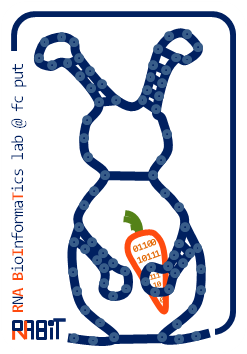
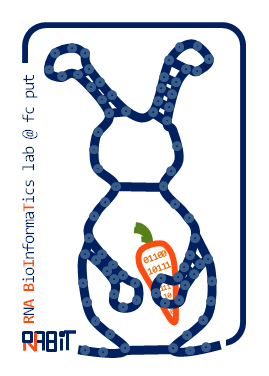
Fixes in About dialog

diff --git a/src/pl/poznan/put/cs/bioserver/gui/MainWindow.java b/src/pl/poznan/put/cs/bioserver/gui/MainWindow.java
@@ -273,8 +273,8 @@ class MainWindow extends JFrame {
         progressBar.setStringPainted(true);
 
         final JPanel panelResultsGlobal = new JPanel(new BorderLayout());
-        panel = new JPanel();
-        panel.add(labelInfoGlobal);
+        panel = new JPanel(new BorderLayout());
+        panel.add(labelInfoGlobal, BorderLayout.WEST);
         panelResultsGlobal.add(panel, BorderLayout.NORTH);
         panelResultsGlobal.add(new JScrollPane(tableMatrix),
                 BorderLayout.CENTER);
@@ -291,8 +291,8 @@ class MainWindow extends JFrame {
         final JPanel panelLocalPlot = new JPanel(new GridLayout(1, 1));
 
         final JPanel panelResultsLocal = new JPanel(new BorderLayout());
-        panel = new JPanel();
-        panel.add(labelInfoLocal);
+        panel = new JPanel(new BorderLayout());
+        panel.add(labelInfoLocal, BorderLayout.WEST);
         panelResultsLocal.add(panel, BorderLayout.NORTH);
         panelResultsLocal.add(panelLocalPlot, BorderLayout.CENTER);
 
@@ -306,8 +306,8 @@ class MainWindow extends JFrame {
         textAreaAlignSeq.setFont(new Font("Monospaced", Font.PLAIN, 20));
 
         final JPanel panelResultsAlignSeq = new JPanel(new BorderLayout());
-        panel = new JPanel();
-        panel.add(labelInfoAlignSeq);
+        panel = new JPanel(new BorderLayout());
+        panel.add(labelInfoAlignSeq, BorderLayout.WEST);
         panelResultsAlignSeq.add(panel, BorderLayout.NORTH);
         panelResultsAlignSeq.add(new JScrollPane(textAreaAlignSeq),
                 BorderLayout.CENTER);

diff --git a/src/pl/poznan/put/cs/bioserver/gui/AboutDialog.java b/src/pl/poznan/put/cs/bioserver/gui/AboutDialog.java
@@ -1,6 +1,7 @@
 package pl.poznan.put.cs.bioserver.gui;
 
 import java.awt.BorderLayout;
+import java.awt.Color;
 import java.awt.Desktop;
 import java.awt.Dimension;
 import java.awt.Frame;
@@ -63,7 +64,7 @@ public class AboutDialog extends JDialog {
         panelClose.add(buttonClose);
 
         JPanel panelImage = new JPanel(new BorderLayout());
-        panelImage.add(labelImage, BorderLayout.NORTH);
+        panelImage.add(labelImage, BorderLayout.CENTER);
 
         setLayout(new BorderLayout());
         add(panelImage, BorderLayout.WEST);
@@ -72,20 +73,15 @@ public class AboutDialog extends JDialog {
 
         setTitle("MCQ4Structures: about");
 
+        setPreferredSize(new Dimension(640, 500));
         pack();
-        int width;
-        if (image != null) {
-            width = image.getWidth() * 5 / 2;
-        } else {
-            width = getPreferredSize().width / 2;
-        }
-        int height = getPreferredSize().height * 3 / 2;
 
         Dimension screenSize = Toolkit.getDefaultToolkit().getScreenSize();
-        int x = screenSize.width - width;
-        int y = screenSize.height - height;
-        setSize(width, height);
+        int x = screenSize.width - 640;
+        int y = screenSize.height - 500;
         setLocation(x / 2, y / 2);
+
+        panelImage.setBackground(Color.white);
 
         editorPane.addHyperlinkListener(new HyperlinkListener() {
             @Override

diff --git a/src/pl/poznan/put/cs/bioserver/gui/TorsionAnglesSelectionDialog.java b/src/pl/poznan/put/cs/bioserver/gui/TorsionAnglesSelectionDialog.java
@@ -55,6 +55,7 @@ class TorsionAnglesSelectionDialog extends JDialog {
             checksAmino[i] = checkBox;
             panelAnglesAmino.add(checkBox);
         }
+        checksAmino[checksAmino.length - 1].setSelected(true);
 
         final JButton buttonSelectAllAmino = new JButton("Select all");
         final JButton buttonClearAmino = new JButton("Clear");
@@ -80,6 +81,7 @@ class TorsionAnglesSelectionDialog extends JDialog {
             checksNucleic[i] = checkBox;
             panelAnglesNucleic.add(checkBox);
         }
+        checksNucleic[checksNucleic.length - 1].setSelected(true);
 
         final JButton buttonSelectAllNucleic = new JButton("Select all");
         JButton buttonClearNucleic = new JButton("Clear");
